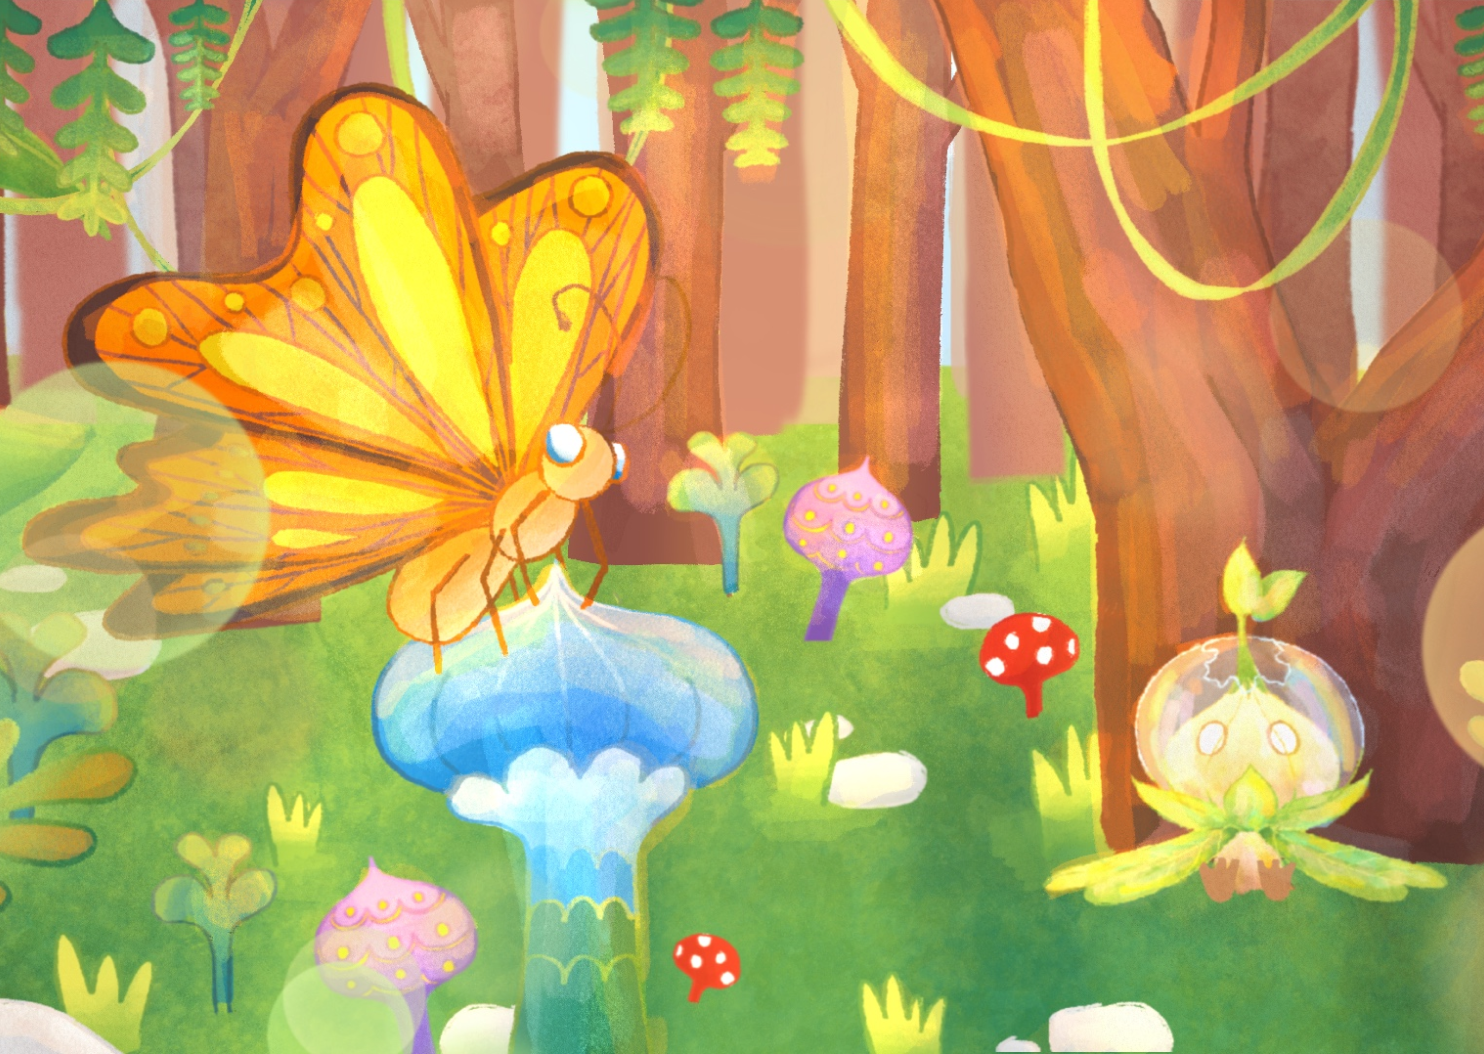
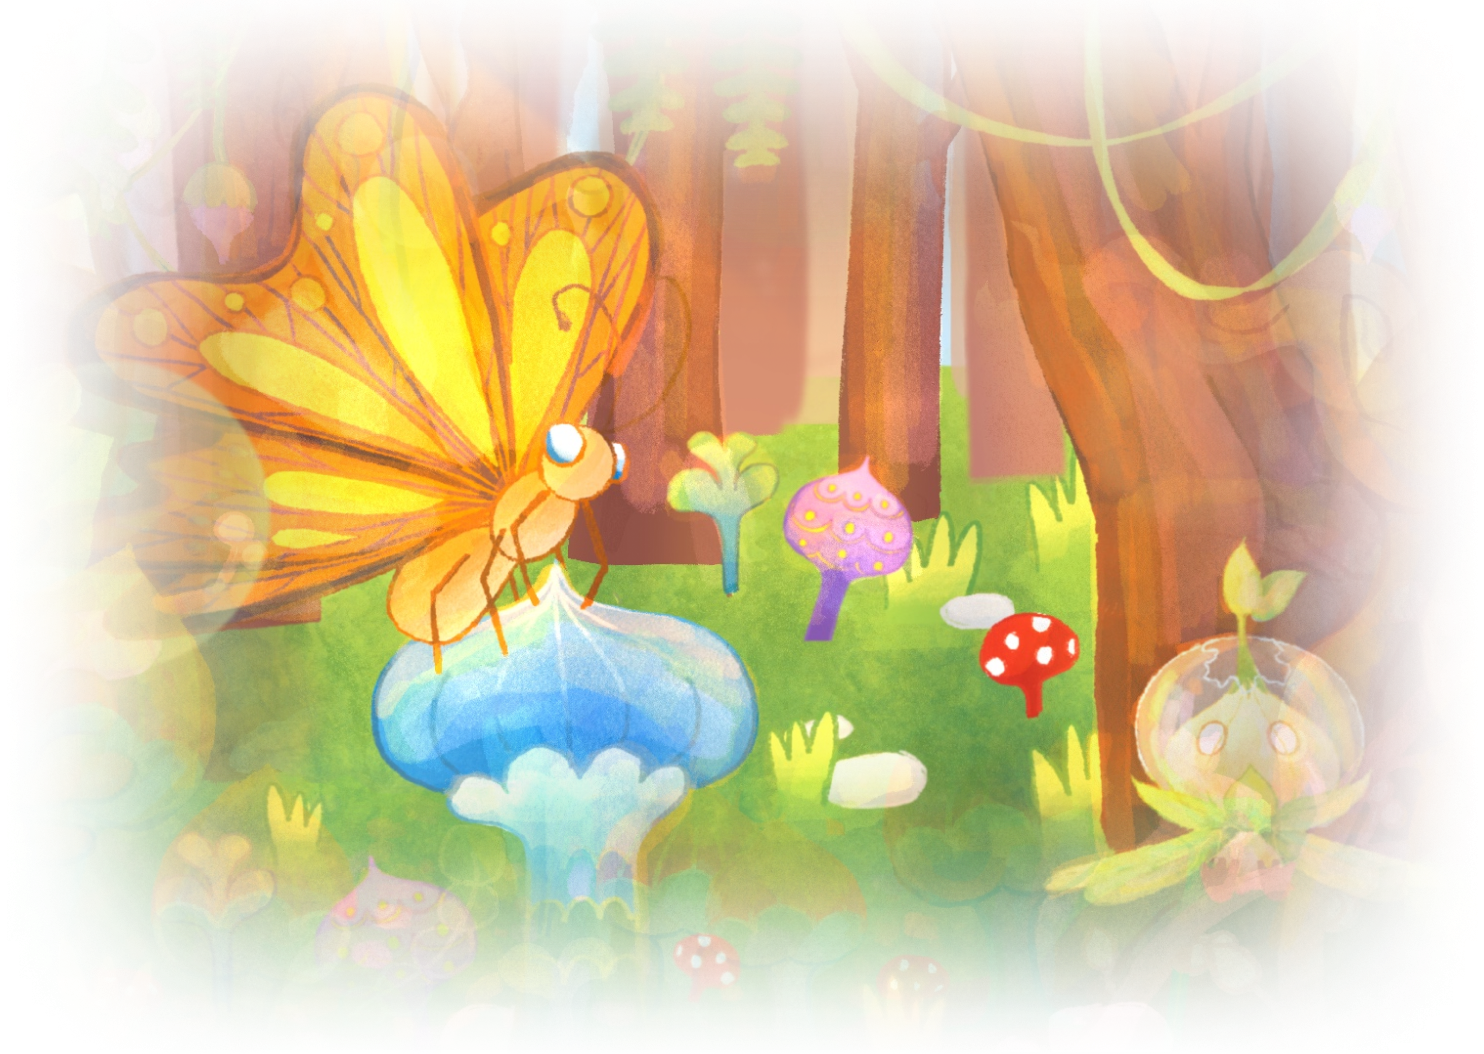
change transition

diff --git a/story.html b/story.html
@@ -402,43 +402,55 @@
                     <p class="text">แต่แล้ว&lt;&gt;ก็นึกถึงเส้นทางที่ผ่านมาตลอดการเดินทาง</p>
                 </div>
                 <div id="tab78" class="tab-content">
-                    <img class="past1" src="./assets/object/past1.png" alt="">
-                    <img class="past1 blur" src="./assets/object/past1.png" alt="">
-                    <div class="align-bottom-with-past">
+
+                    <div class="past-container">
+                        <img class="past1" src="./assets/object/past1.png" alt="">
+
+
+                    </div>
+                    <div class="align-bottom-with-past align-bottom">
                         <p class="text">ตั้งแต่จุดเริ่มต้นของการเดินทาง</p>
                     </div>
                 </div>
                 <div id="tab79" class="tab-content">
-                    <img class="past1" src="./assets/object/past1.png" alt="">
-                    <img class="past2" src="./assets/object/past2.png" alt="">
-                    <div class="align-bottom-with-past">
+                    <div class="past-container">
+                        <img class="past1" src="./assets/object/past1.png" alt="">
+                        <img class="past2" src="./assets/object/past2.png" alt="">
+                    </div>
+                    <div class="align-bottom-with-past align-bottom">
                         <p class="text">ช่วงเวลาดี ๆ และสิ่งดี ๆ ที่เกิดขึ้น</p>
                     </div>
                 </div>
                 <div id="tab80" class="tab-content">
-                    <img class="past1" src="./assets/object/past1.png" alt="">
-                    <img class="past2" src="./assets/object/past2.png" alt="">
-                    <img class="past3" src="./assets/object/past3.png" alt="">
-                    <div class="align-bottom-with-past">
+                    <div class="past-container">
+                        <img class="past1" src="./assets/object/past1.png" alt="">
+                        <img class="past2" src="./assets/object/past2.png" alt="">
+                        <img class="past3" src="./assets/object/past3.png" alt="">
+                    </div>
+                    <div class="align-bottom-with-past align-bottom">
                         <p class="text">เส้นทางที่แม้จะยากลำบาก แต่ก็สวยงาม</p>
                     </div>
                 </div>
                 <div id="tab81" class="tab-content">
-                    <img class="past1" src="./assets/object/past1.png" alt="">
-                    <img class="past2" src="./assets/object/past2.png" alt="">
-                    <img class="past3" src="./assets/object/past3.png" alt="">
-                    <img class="past4" src="./assets/object/past4.png" alt="">
-                    <div class="align-bottom-with-past">
+                    <div class="past-container">
+                        <img class="past1" src="./assets/object/past1.png" alt="">
+                        <img class="past2" src="./assets/object/past2.png" alt="">
+                        <img class="past3" src="./assets/object/past3.png" alt="">
+                        <img class="past4" src="./assets/object/past4.png" alt="">
+                    </div>
+                    <div class="align-bottom-with-past align-bottom">
                         <p class="text">อุปสรรคมากมายที่ได้พบเจอและได้ฝ่าฟันผ่านมา</p>
                     </div>
                 </div>
                 <div id="tab82" class="tab-content">
+                    <div class="past-container">
                     <img class="past1" src="./assets/object/past1.png" alt="">
                     <img class="past2" src="./assets/object/past2.png" alt="">
                     <img class="past3" src="./assets/object/past3.png" alt="">
                     <img class="past4" src="./assets/object/past4.png" alt="">
                     <img class="past5" src="./assets/object/past5.png" alt=""> 
-                    <div class="align-bottom-with-past">
+                    </div>
+                    <div class="align-bottom-with-past align-bottom">
                         <p class="text">รวมถึงการที่ได้เผชิญหน้ากับสิ่งที่ตัวเองกลัว</p>
                     </div>
                 </div>
@@ -512,6 +524,10 @@
     firstTab.style.display = "block"
     let text_container = document.getElementsByClassName("text-container")[0]
 
+    let body = document.getElementsByTagName("body")[0]
+
+
+
     
 
 
@@ -546,6 +562,25 @@
 
     function nextTab(nextPage = 1) {
         let text_container = document.getElementsByClassName("text-container")[0]
+        if(curTab >= 77 && curTab <= 81){
+            pastNo = curTab%75
+            console.log(pastNo);
+            let past = document.getElementsByClassName('past'+pastNo)
+            let bottomWpast = document.getElementsByClassName('align-bottom-with-past')
+            if(nextPage>= 1){
+            image.style.opacity -= 0.2
+            image2.style.opacity -= 0.2
+            }
+            bottomWpast[pastNo-2].style.opacity = 0
+            for(let i = 0 ; i < past.length ; i++){
+                setTimeout(() => {
+                    bottomWpast[pastNo-1].style.opacity = 1
+                    past[i].style.opacity = 1
+                },400)
+            }
+
+        }
+        if(!(curTab >= 77 && curTab <= 81))
         text_container.style.opacity = 0
 
         let changeImage = false
@@ -561,6 +596,7 @@
         // if(changeImage) image.style.opacity = 0
         if(changeImage) {
             // image.style.filter = 'blur(10px) opacity(0.2)'
+            body.style.cursor = 'wait'
             image.style.visibility = 'hidden'
             image.src = "./assets/scenes/scene" + curScene + (curScene === 13 ? ".GIF" : ".png")
             image.style.zIndex = 1
@@ -609,7 +645,7 @@
 
     }
 
-    let body = document.getElementsByTagName("body")[0]
+
     let preventElement = ["choice", "circle"]
     let preventScene = [11,16,22,28,29,34,35,36,43,46,55,59,90]
     body.addEventListener("click", function (data){
@@ -646,6 +682,7 @@
 
         setTimeout(() => {
             text_container.style.opacity = 1
+            body.style.cursor = 'default'
         }, 500);
     });
 

diff --git a/styles/story.css b/styles/story.css
@@ -7,7 +7,7 @@
     opacity: 0;
     /* background-color: white; */
     z-index: 3;
-    overflow: hidden;
+    /* overflow: hidden; */
     
 }
 
@@ -56,7 +56,7 @@
     transition: opacity 0.3s ;
     opacity: 0;
     z-index: 2;
-    overflow: hidden;
+    /* overflow: hidden; */
 }
 
 .custom-aspect-ratio-transition2 {  
@@ -67,7 +67,7 @@
     opacity: 1;
     z-index: 1;
     visibility: hidden;
-    overflow: hidden;
+    /* overflow: hidden; */
 
 }
 
@@ -197,65 +197,76 @@
 }
 
 .align-bottom-with-past {
+    /* display: block; */
     position: absolute;
-    aspect-ratio: 16/9;
     width: 100%;
-    height: 95%;
+    aspect-ratio: 16/9;
     max-height: 100vh;
-    text-align: center;
-    align-content: end;
-    /* margin-bottom: ; */
+    /* background-color: red; */
+    opacity: 1;
+    transition: opacity 0.3s;
 }
 
 .past-container {
+    position: absolute;
+    aspect-ratio: 16/9;
     width: 100%;
-    /* background-color: red; */
+    /* background-color: yellow; */
     max-height: 100vh;
-    overflow: hidden;
+    z-index: 10;
+
 }
+
+
 
 .past1 {
     position: absolute;
-    width: 30vw ;
+    width: 32vw ;
     max-height: 100vh;
-    margin-top: 5vw;
+    margin-top: 2vw;
     margin-left: 5vw;
+
 }
 
 .past2 {
     position: absolute;
-    width: calc(30vw - 5vh);
+    width: 32vw;
     max-height: 100vh;
-    margin-top: 5vw;
-    margin-left: 65vw;
+    margin-top: 2vw;
+    margin-left: 63vw;
+    opacity: 0;
+    transition: opacity 0.3s;
 }
 
 .past3 {
     position: absolute;
-    width: calc(30vw - 5vh);
+    width: 32vw;
     max-height: 100vh;
-    margin-top: calc(30vw) ; 
-    margin-left: 3vw;
+    margin-top: 25vw ; 
+    margin-left: 2vw;
+    opacity: 0;
+    transition: opacity 0.3s;
 
 }
 
 
-/* .past3 {
-    width: 20vw;
-} */
-
 .past4 {
     position: absolute;
-    width: calc(30vw - 5vh);
+    width: 32vw;
     max-height: 100vh;
-    margin-top: 30vw ;
-    margin-left: 67vw;
+    margin-top: 25vw ;
+    margin-left: 65vw;
+    opacity: 0;
+    transition: opacity 0.3s;
 }
 
 .past5 {
     position: absolute;
-    width: calc(30vw - 5vh);
+    width: 40vw;
     max-height: 100vh;
-    margin-top: 20vw;
-    margin-left: 35vw;
+    margin-top: 12vw;
+    margin-left: 30vw;
+    z-index: 10;
+    opacity: 0;
+    transition: opacity 0.3s;
 }
